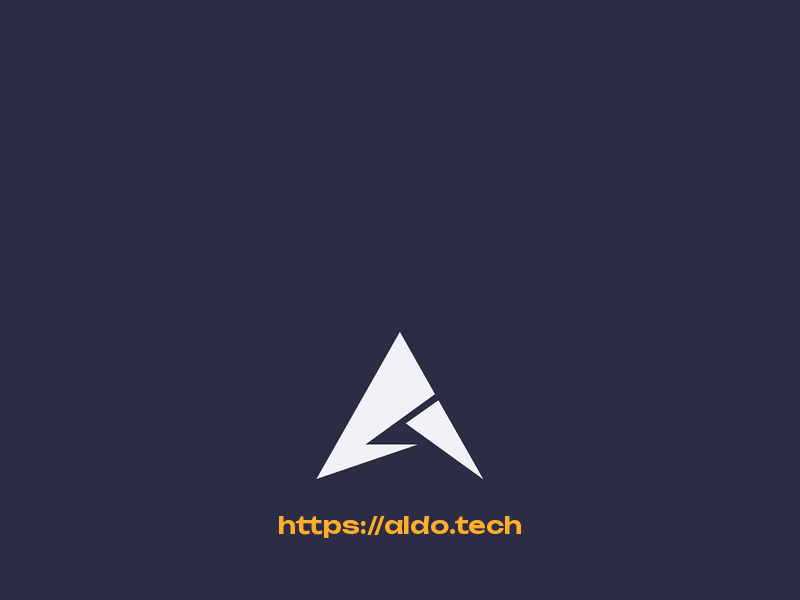
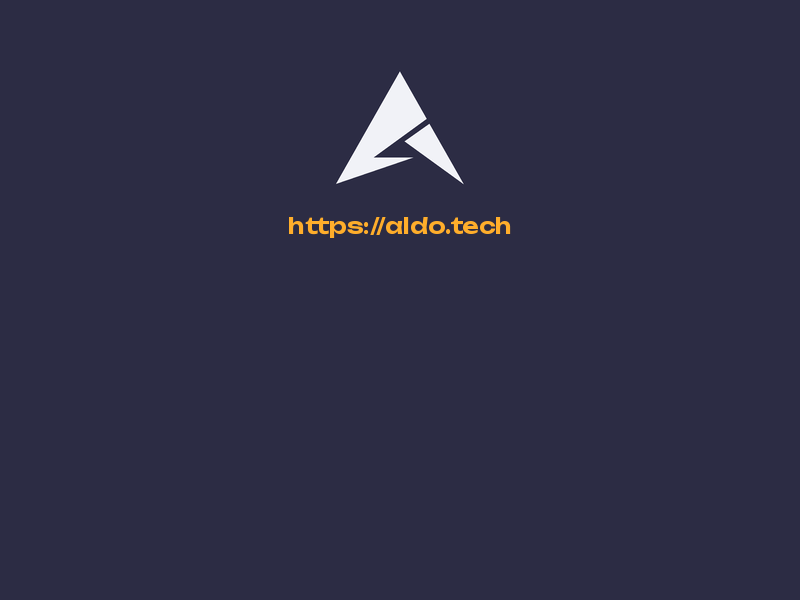
assets: boot wallpaper with the mark and URL above the menu

diff --git a/scripts/make-boot-wallpaper.py b/scripts/make-boot-wallpaper.py
@@ -2,9 +2,9 @@
 """Draws the boot-menu wallpaper: the ALDO TECH mark with the site URL below it.
 
 The mark is assets/boot/aldotech-logo-mark.svg, the colours are those of
-aldo.tech (navy background, light mark, amber URL). The mark sits in the
-lower half so Limine's menu entries (centred around y = 290 at 800x600) stay
-clear of it. Run it only when the artwork changes and commit the PNG: the ISO
+aldo.tech (navy background, light mark, amber URL). The mark and the URL sit in
+the upper half, above Limine's menu entries (centred around y = 290 whatever
+the screen size, because the image and the menu are both centred). Run it only when the artwork changes and commit the PNG: the ISO
 build reads assets/boot/wallpaper.png and needs neither Pillow nor the font.
 
     scripts/make-boot-wallpaper.py FONT.ttf [OUT.png]
@@ -31,16 +31,17 @@ def main() -> None:
     img = Image.new("RGB", (W * SS, H * SS), NAVY)
     d = ImageDraw.Draw(img)
 
-    mark_w = 170
+    mark_w = 130
     s = mark_w * SS / BOX[2]
-    left, top = (W - mark_w) / 2 * SS, 330 * SS
+    top_y = 70
+    left, top = (W - mark_w) / 2 * SS, top_y * SS
     for poly in (MARK_A, MARK_B):
         d.polygon([(left + (x - BOX[0]) * s, top + (y - BOX[1]) * s) for x, y in poly], fill=TEXT)
     img = img.resize((W, H), Image.LANCZOS)
 
     d = ImageDraw.Draw(img)
-    font = ImageFont.truetype(font_path, 24)
-    y = 330 + mark_w * BOX[3] / BOX[2] + 28
+    font = ImageFont.truetype(font_path, 22)
+    y = top_y + mark_w * BOX[3] / BOX[2] + 26
     d.text(((W - d.textlength(URL, font=font)) / 2, y), URL, font=font, fill=AMBER)
     img.save(out, optimize=True)
 
